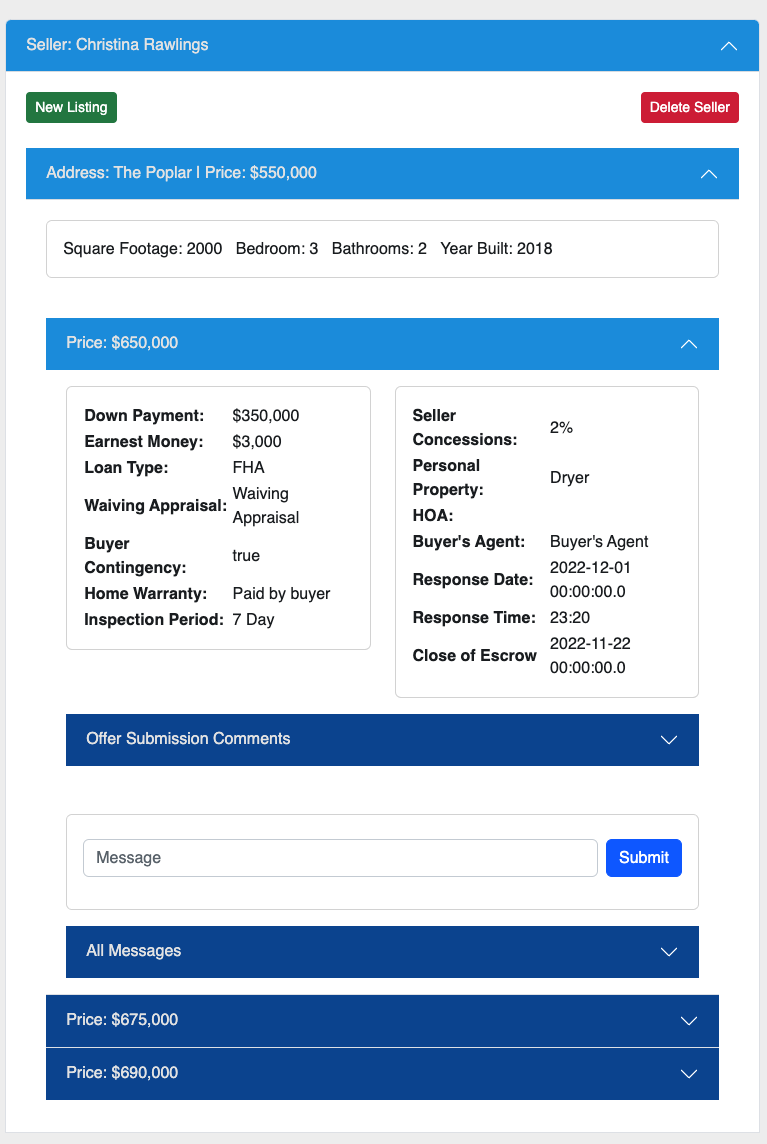
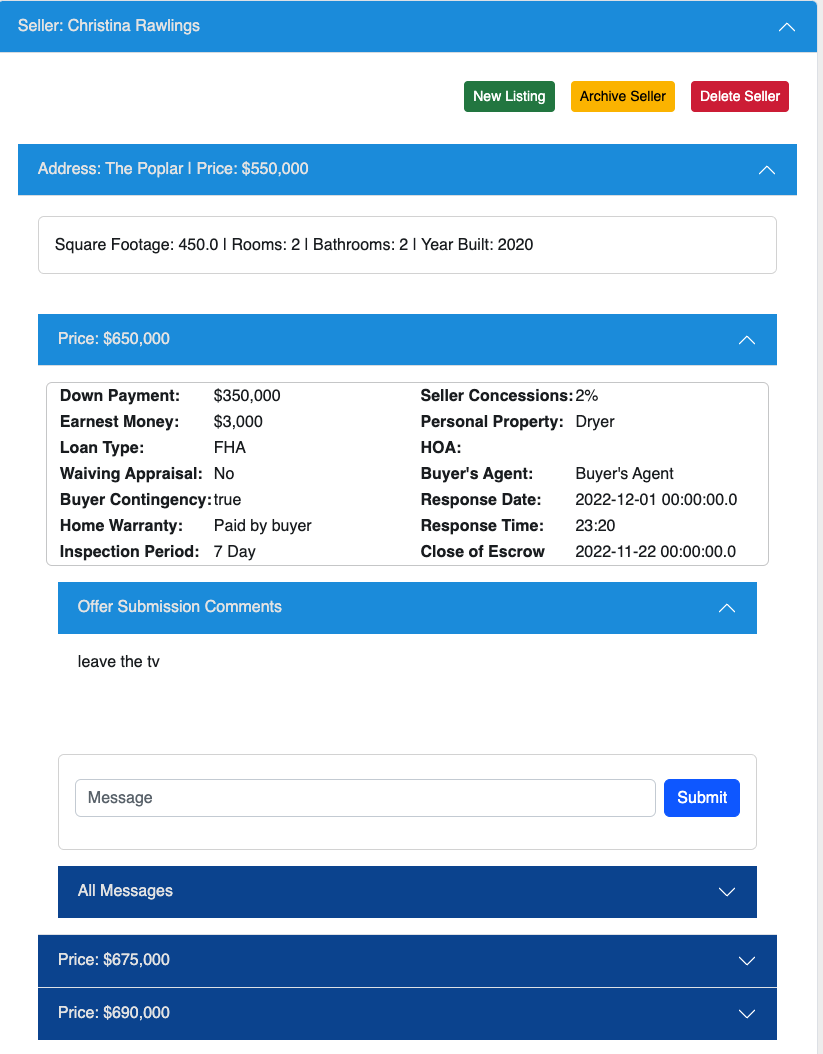
style changes and changed square footage to show with commas

diff --git a/src/main/resources/static/css/grid.css b/src/main/resources/static/css/grid.css
@@ -35,75 +35,9 @@ header {
 }
 
 
-
-
-.error-image{
-    width: 100%;
-    height: 100%;
-    margin: auto;
-    padding: 0px;
-}
-
-.error-message{
-      margin-left: 65px;
-      margin-top: 11px;
-      position: absolute;
-      font-size: 56px;
-      font-family: 'Roboto Mono', monospace;
-}
-
-.error-status{
-    position: relative;
-}
-
-
-
-
-.splash-message{
-      text-align: center;
-      margin: auto;
-      display: inline;
-      margin-top: 11px;
-      position: absolute;
-      font-size: 56px;
-      color: white;
-}
-
-.splash-image{
-    width: 100%;
-    height: 700px;
-    padding: 0px;
-}
-
-.template-image{
-    width:600px;
-    height: 650px;
-}
-
-.template-image-div{
-    display: inline-block;
-    margin-top: 18px;
-
-}
-
-.splash-template{
-    text-align: center;
-    margin-top: 18px;
-}
-
-.seller-template{
-    margin-top: 18px;
-}
-
-.communication-template{
-    margin-top: 18px;
-}
-
-
 main {
   grid-area: main;
   padding: 0px;
-  font-family: 'Andada Pro', serif;
 }
 
 .lside {

diff --git a/src/main/resources/static/css/splash.css b/src/main/resources/static/css/splash.css
@@ -1,0 +1,62 @@
+.error-image{
+    width: 100%;
+    height: 100%;
+    margin: auto;
+    padding: 0px;
+}
+
+.error-message{
+      margin-left: 65px;
+      margin-top: 29px;
+      position: absolute;
+      font-size: 56px;
+      left: 20%;
+      right: 20%;
+}
+
+.error-status{
+    position: relative;
+}
+
+.splash-message{
+      text-align: center;
+      margin: auto;
+      display: inline;
+      margin-top: 29px;
+      position: absolute;
+      font-size: 56px;
+      color: white;
+      left: 20%;
+      right: 20%;
+
+}
+
+
+.splash-image{
+    width: 100%;
+    height: 700px;
+    padding: 0px;
+}
+
+.template-image{
+    width:600px;
+    height: 700px;
+}
+
+.template-image-div{
+    display: inline-block;
+    margin-top: 18px;
+}
+
+.splash-template{
+    text-align: center;
+    margin-top: 18px;
+}
+
+.seller-template{
+    margin-top: 18px;
+}
+
+.communication-template{
+    margin-top: 18px;
+}

diff --git a/src/main/resources/templates/fragments/new-listing-card.html b/src/main/resources/templates/fragments/new-listing-card.html
@@ -104,7 +104,7 @@
                               <!-- Begin Div For New Content -->
                               <div class="p2">
                                 <a
-                                  th:text="'Square Footage: ' + ${property.squareFootage} + ' | ' + ' Rooms: ' + ${property.numberOfRooms} + ' | ' + ' Bathrooms: ' + ${property.numberOfBathrooms} + ' | ' + ' Year Built: ' + ${property.yearBuilt}"></a>
+                                  th:text="'Square Footage: ' + ${property.squareFootageString} + ' | ' + ' Rooms: ' + ${property.numberOfRooms} + ' | ' + ' Bathrooms: ' + ${property.numberOfBathrooms} + ' | ' + ' Year Built: ' + ${property.yearBuilt}"></a>
                               </div>
                               <!-- End Div For New Content -->
 

diff --git a/src/main/resources/templates/index.html b/src/main/resources/templates/index.html
@@ -20,7 +20,7 @@
         <h2 class="agent-message">Your Dashboard as an Agent</h2>
         <div class="template-image-div">
             <h4> As an Agent you can view your listings <br>and offers in one page!</h4>
-            <img  class="template-image" src="/images/property-listings.png" alt="property-listings-img">
+            <img  class="template-image-property" src="/images/property-listings.png" alt="property-listings-img">
         </div>
         <div class="template-image-div">
             <h4>Your offers and details will be <br> consolidated under the related property</h4>

diff --git a/src/main/resources/templates/fragments/meta-head.html b/src/main/resources/templates/fragments/meta-head.html
@@ -10,8 +10,10 @@
   <link rel="stylesheet" href="/css/chat.css">
   <link rel="stylesheet" href="/css/full.css">
   <link rel="stylesheet" href="/css/custom.css">
+  <link rel="stylesheet" href="/css/splash.css">
 
-<script src="https://kit.fontawesome.com/b5f6a62744.js" crossorigin="anonymous"></script>
+
+  <script src="https://kit.fontawesome.com/b5f6a62744.js" crossorigin="anonymous"></script>
   <title>Real Offer Hub</title>
 </head>
 

diff --git a/src/main/resources/templates/error.html b/src/main/resources/templates/error.html
@@ -9,7 +9,7 @@
     <div th:replace="/fragments/header :: body"></div>
 </header>
 <main>
-    <h2 class="error-message">Were sorry, <br> we cannot find what you're looking for</h2>
+    <h2 class="error-message">Were sorry, we cannot find what you're looking for</h2>
     <img class="error-image"  src="/images/error-img.png" alt="error-img">
 
 </main>

diff --git a/src/main/java/com/realSolutions/realOfferHub/models/Property.java b/src/main/java/com/realSolutions/realOfferHub/models/Property.java
@@ -21,6 +21,8 @@ public class Property {
    private Integer yearBuilt;
    private String priceString;
 
+   private String squareFootageString;
+
 
     @ManyToOne
     SiteUser mySeller;
@@ -32,7 +34,7 @@ public class Property {
     }
 
 
-    public Property(String address, Float price, Date initialPosting, Integer numberOfRooms, Integer numberOfBathrooms, Float squareFootage, Integer yearBuilt, String priceString, SiteUser mySeller) {
+    public Property(String address, Float price, Date initialPosting, Integer numberOfRooms, Integer numberOfBathrooms, Float squareFootage, Integer yearBuilt, String priceString, String squareFootageString, SiteUser mySeller) {
         this.address = address;
         this.price = price;
         this.initialPosting = initialPosting;
@@ -41,7 +43,12 @@ public class Property {
         this.squareFootage = squareFootage;
         this.yearBuilt = yearBuilt;
         this.priceString = priceString;
+        this.squareFootageString = squareFootageString;
         this.mySeller = mySeller;
+    }
+
+    public String getSquareFootageString() {
+        return squareFootageString;
     }
 
     public String getPriceString() {

diff --git a/src/main/java/com/realSolutions/realOfferHub/controllers/SiteUserController.java b/src/main/java/com/realSolutions/realOfferHub/controllers/SiteUserController.java
@@ -101,7 +101,8 @@ public class SiteUserController {
 
         NumberFormat priceFormat = NumberFormat.getInstance();
         String priceString = "$" + priceFormat.format(Float.parseFloat(price));
-        Property newProperty = new Property(address, Float.parseFloat(price), new SimpleDateFormat("yyyy-MM-dd").parse(initialPosting), Integer.parseInt(numberOfRooms), Integer.parseInt(numberOfBathrooms), Float.parseFloat(squareFootage), Integer.parseInt(yearBuilt), priceString, seller);
+        String squareFootageString = priceFormat.format(Float.parseFloat(squareFootage));
+        Property newProperty = new Property(address, Float.parseFloat(price), new SimpleDateFormat("yyyy-MM-dd").parse(initialPosting), Integer.parseInt(numberOfRooms), Integer.parseInt(numberOfBathrooms), Float.parseFloat(squareFootage), Integer.parseInt(yearBuilt), priceString, squareFootageString, seller);
 
         propertyRepository.save(newProperty);
         return new RedirectView("/dashboard");
